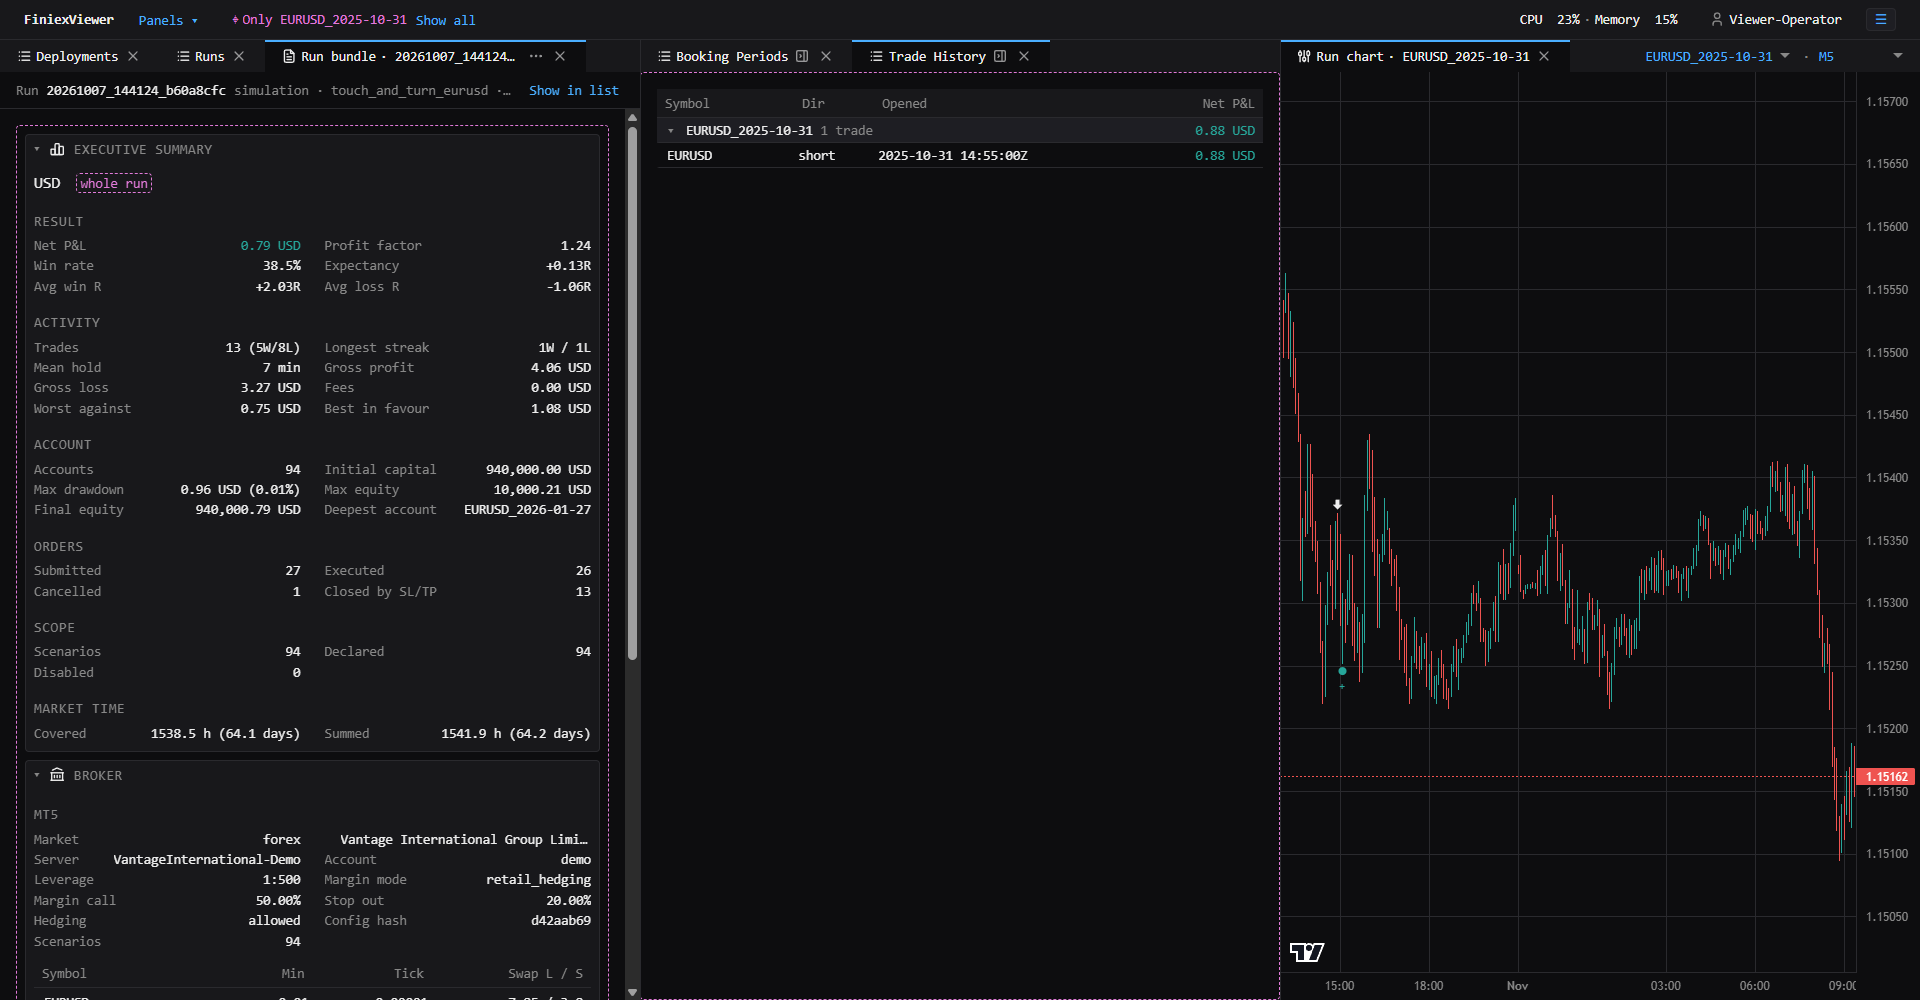
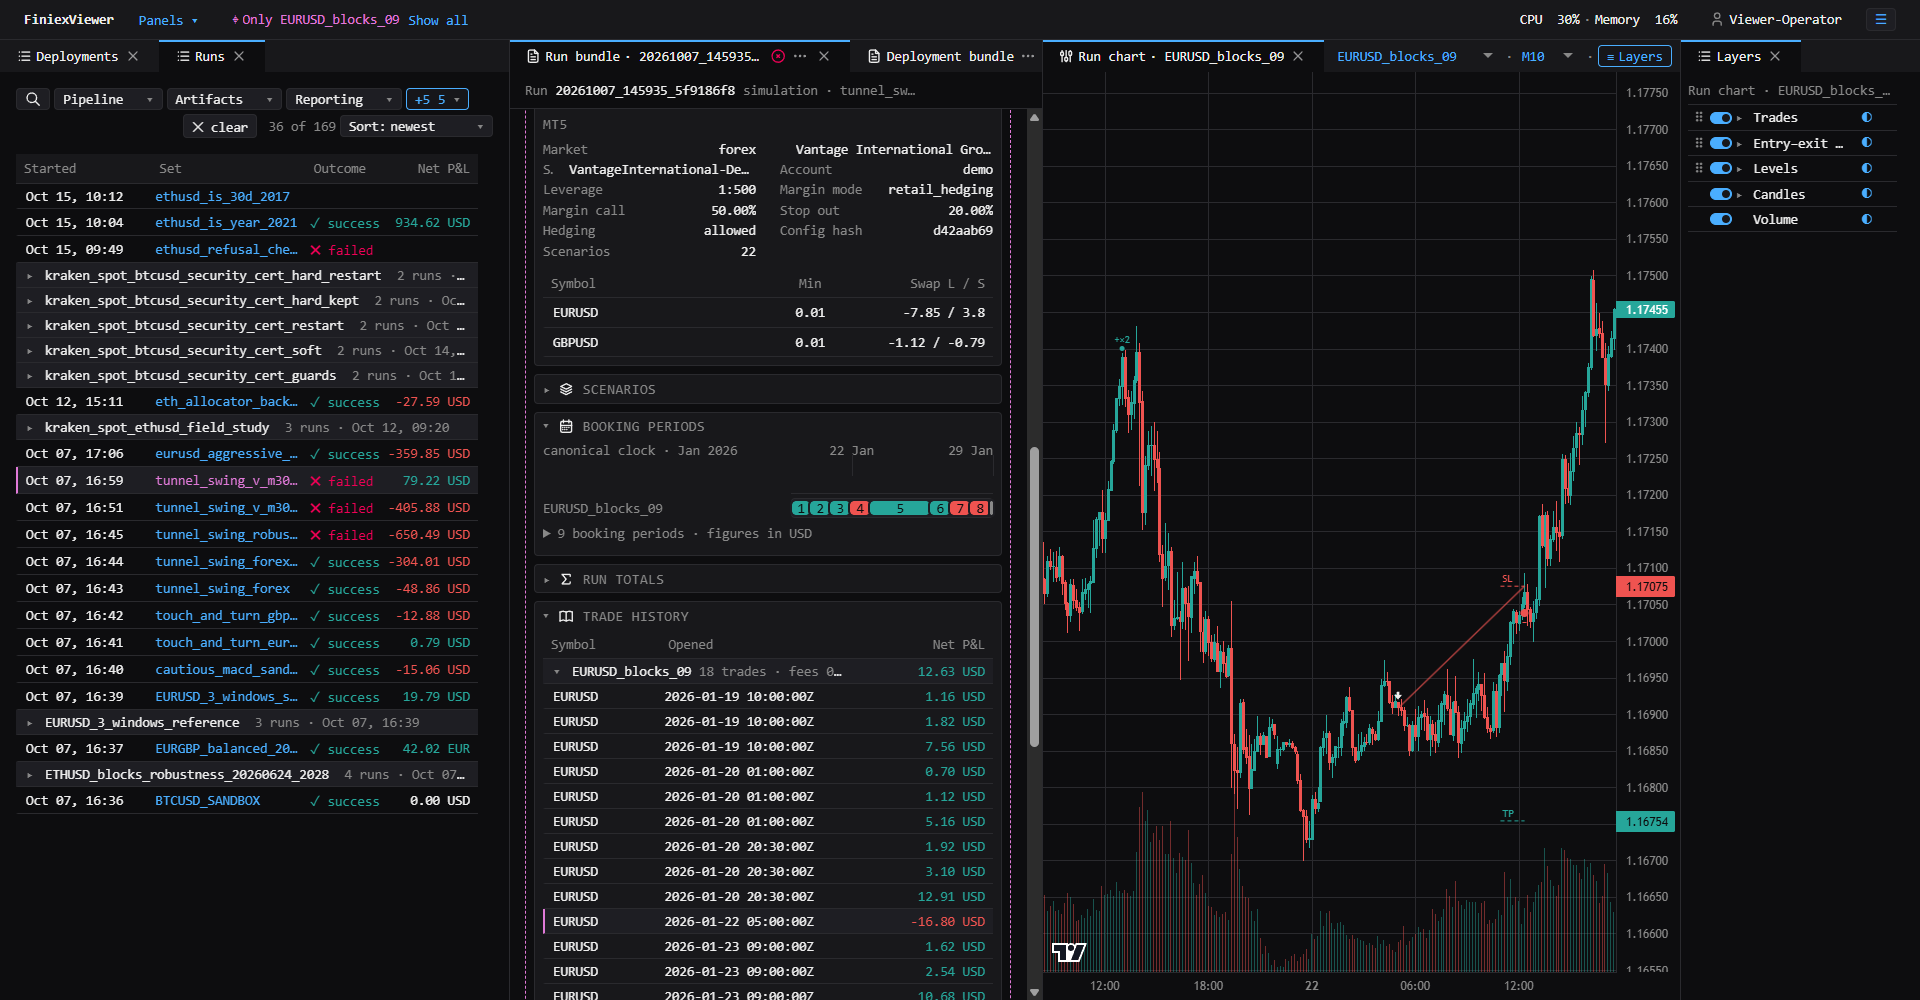
Prepare v0.5.0: the version, the README and its pictures
The version moves to 0.5.0 in package.json, its lockfile and the README.
The README opens with the app's highlights as pictures: a run with its
trades, levels and volume on the candles beside the Layers panel, a
deployment as its bundle, a session played over time, and a parameter
search ranked. The run list stands in every picture, so its own was
dropped in the commit before this one; the rest is said in a short
list. The status line names what this release is about, and the tech
stack and the architecture sketch name the chart's layers and the
deployment bundle.

diff --git a/README.md b/README.md
@@ -1,44 +1,62 @@
 # FiniexViewer
 
-> **Version:** v0.4.0 Pre-Alpha Showcase
-> **Status:** v0.4.0 — docked panels. The run report as a bundle whose sections open as panels of
-> their own, a run chart with the trades on their candles, a deployment's session history, an
-> arrangement kept per browser tab, 1138 unit tests and a browser suite.
+> **Version:** v0.5.0 Pre-Alpha Showcase
+> **Status:** v0.5.0 — a deployment as a bundle the way a run is, a session's recorded frames played
+> over time, and the run chart's layers: volume, candles in four forms, the levels and entry–exit
+> lines of a position, arranged by dragging. 1510 unit tests and a browser suite.
 
 A web-based viewer companion for **[FiniexTestingIDE](https://github.com/dc-deal/FiniexTestingIDE)**.
 
-It reads what a backtest or an AutoTrader session LEFT BEHIND and puts it on one screen: the orders
-a strategy submitted and what became of each one, the trades they produced, the periods the run was
-booked into, the warnings a validator raised, and the configuration it all ran under. Nothing is
-recomputed here — every figure is a field the API served, or it is asked for as one.
+It reads what a backtest or an AutoTrader session left behind and puts it on one screen: the orders
+a strategy submitted and what became of each one, the trades on their candles, the periods the run
+was booked into, the warnings a validator raised, and the configuration it all ran under. **Nothing
+is recomputed here** — every figure is a field the API served, or it is asked for as one.
 
-The candle chart it started as is still there. Deployments, runs and the chart are docked panels —
-tabs that split side by side — and every view comes back as the reader left it after a reload. A
-trade opens on its candles in one click: the run chart beside the report shows a unit of the run,
-its trades marked where they opened and closed.
+Everything is a docked panel: tabs that split side by side, arranged the way an editor's are and
+kept across a reload.
 
-![A run report beside its trade history and the run chart, one scenario in focus](docs/images/run_dock_dark.png)
+## Highlights
 
-**A run, as panels.** The run report is a bundle: its sections stand one below the other, and any of
-them opens as a panel of its own beside it. One scenario in focus narrows every panel that lists
-scenarios — the dashed frame says which — and the run chart shows that scenario's candles with its
-trades marked where they opened and closed; a card at the pointer says which trade a mark is.
+### A run, its trades on their candles
 
-![The run list, folded by family, beside the run chart](docs/images/runs_list_dark.png)
+![A run as panels beside its run chart and its layers, one scenario in focus](docs/images/run_dock_dark.png)
 
-**The run list.** A facet bar on one line narrows the list, and a pick shows the run in every panel at
-once. A sweep's combinations and a deployment's sessions are left to panels of their own — the
-Sweeps panel ranks a parameter search by the objective it declared — and fold under one heading
-where the filter lets them in.
+The run report is a bundle whose sections open as panels of their own. One scenario in focus narrows
+every list, and the run chart beside it draws that scenario's trades where they opened and closed,
+the stop loss, the take profit and the entry–exit line of the position looked at, and the volume
+behind the candles. The Layers panel shows, fades and orders what the chart draws — by dragging.
 
-![A deployment, its sessions and the booking periods across them](docs/images/deployment_dark.png)
+### A live bot across its restarts
 
-**A live bot across its restarts.** Sessions are separate runs, so the view says when they are not
-one series rather than adding them up — and the periods of all of them share one clock.
+![A deployment as its bundle: its sessions with their configuration changes, and the booking periods across them](docs/images/deployment_dark.png)
 
-**What runs on the machine.** The Activities panel lists what FiniexTestingIDE is running — a
-backtest, a sweep, a live session, an import, its test suite, the API server itself — each beneath
-the one it runs inside, with the memory it holds; a label opens its run or its sweep.
+A deployment opens as a bundle of its sessions and its booking periods. Sessions are separate runs,
+so the view says when they are not one series instead of adding them up; where a session changed its
+configuration, *before · after* opens both, compared.
+
+### A session over time
+
+![A recorded session's state frames, played back frame by frame](docs/images/session_frames_dark.png)
+
+A session that records its state frames plays them back: step through them, play them at a chosen
+speed, or follow a session that is still recording — its account, its decision and every worker's
+output, frame by frame.
+
+### A parameter search, ranked
+
+![A sweep's combinations in the order its objective ranked them](docs/images/sweep_ranked_dark.png)
+
+The Sweeps panel opens each parameter search in the order the backend ranked its combinations by the
+objective it declared, and one click makes a combination the run on show.
+
+### And more
+
+- **Find a run by what it did** — a facet bar on one line narrows the run list by pipeline, outcome,
+  set or time; a sweep's combinations and a deployment's sessions fold under one heading.
+- **What runs on the machine** — the Activities panel lists what FiniexTestingIDE is running, each
+  beneath the one it runs inside, with the memory it holds.
+- **A warning says where it came from** — headed by the title of the validation check that decided it.
+- **Every control explains itself** in a hint that can be dismissed, in a dark and a light theme.
 
 ---
 
@@ -119,7 +137,7 @@ If you use the FiniexTestingIDE devcontainer, the dual-container setup is docume
 | Docking | **dockview** — tabbed, docked panels; floating switched off |
 | Charts | **Lightweight Charts** (TradingView) |
 | HTTP client | **axios** |
-| Layout | **vue-draggable-plus** for the order of the sections in the run report |
+| Layout | **vue-draggable-plus** for the order of the run report's sections and of the chart's layers |
 | Headless components | **Reka UI** — collapsible, dropdown menus, dialog, popover, hover card, tooltip |
 | Icons | **Tabler Icons** — drawn by meaning through one registry |
 | Theme | CSS Custom Properties token system, dark/light mode |
@@ -143,7 +161,7 @@ Every document, one line on what each answers: [docs/documentation_index.md](doc
 │  - Docked panels        │                            │  - Parquet tick reader   │
 │  - Run report bundle    │                            │  - Bar index manager     │
 │  - Run chart, free chart│                            │  - Scenario engine       │
-│  - Deployment history   │                            │  - Run-results ledger    │
+│  - Deployment bundle    │                            │  - Run-results ledger    │
 │  - Restored arrangement │                            │                          │
 └─────────────────────────┘                            └──────────────────────────┘
 ```
